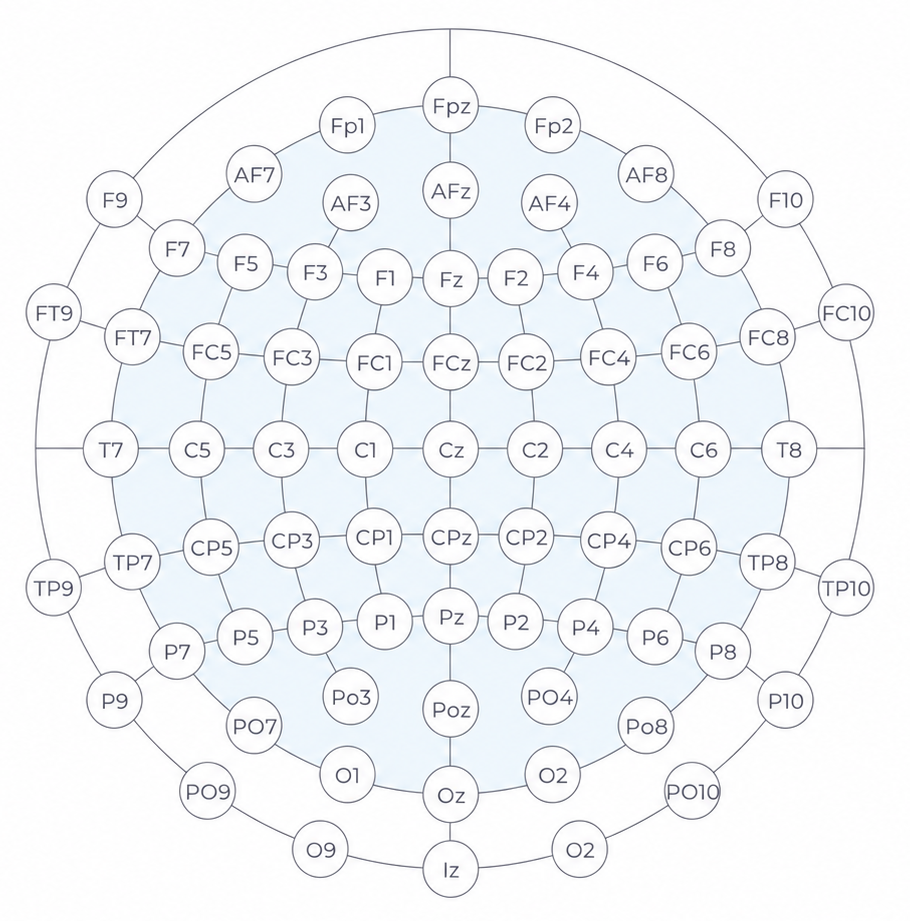
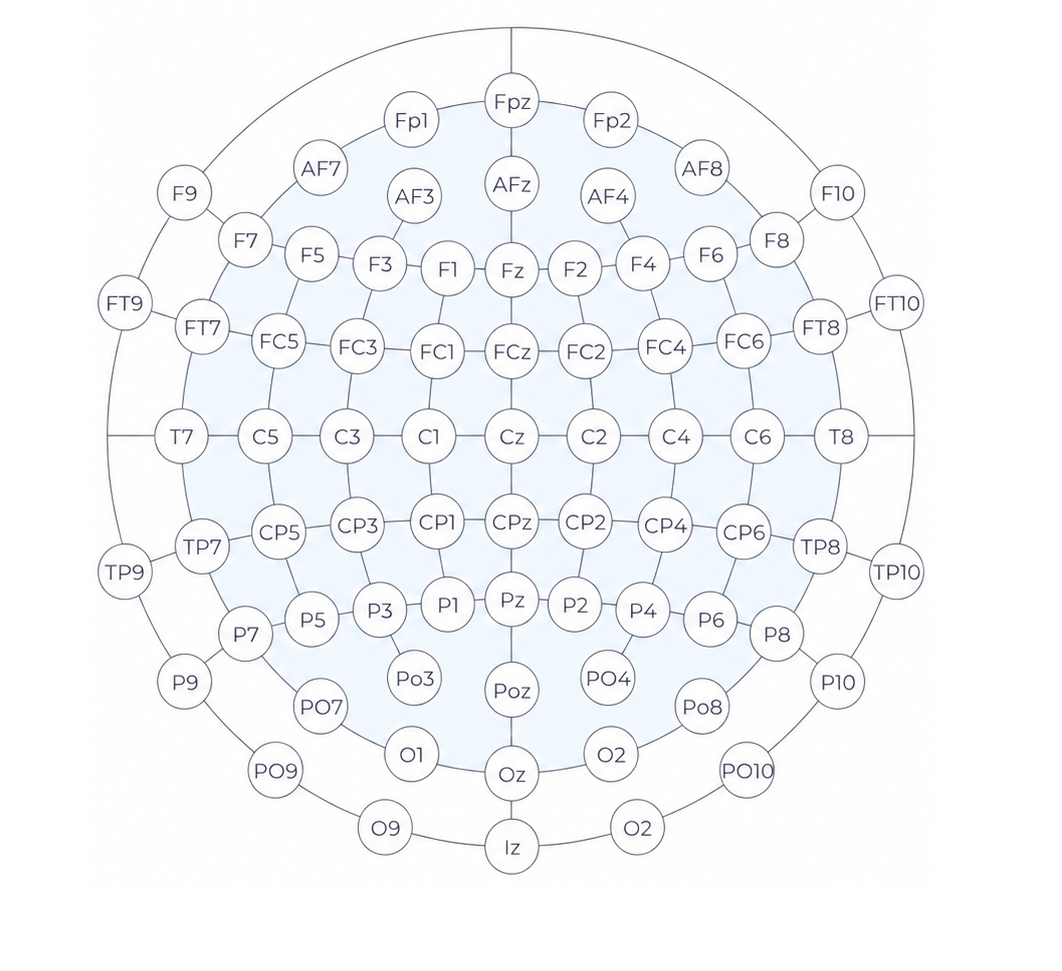
another minor bugfix

diff --git a/emotiv_lsl/flex_layout.py b/emotiv_lsl/flex_layout.py
@@ -10,7 +10,7 @@ FLEX_10_20_LOCATIONS = (
     "Fp1", "Fp2",
     "AF7", "AF3", "AFz", "AF4", "AF8",
     "F9", "F7", "F5", "F3", "F1", "Fz", "F2", "F4", "F6", "F8", "F10",
-    "FT9", "FT7", "FC5", "FC3", "FC1", "FCz", "FC2", "FC4", "FC6", "FC8", "FT8", "FT10",
+    "FT9", "FT7", "FC5", "FC3", "FC1", "FCz", "FC2", "FC4", "FC6", "FT8", "FT10",
     "T7", "C5", "C3", "C1", "Cz", "C2", "C4", "C6", "T8",
     "TP9", "TP7", "CP5", "CP3", "CP1", "CPz", "CP2", "CP4", "CP6", "TP8", "TP10",
     "P9", "P7", "P5", "P3", "P1", "Pz", "P2", "P4", "P6", "P8", "P10",
@@ -18,4 +18,3 @@ FLEX_10_20_LOCATIONS = (
     "O1", "Oz", "O2",
     "O9", "Iz", "O10",
 )
-
